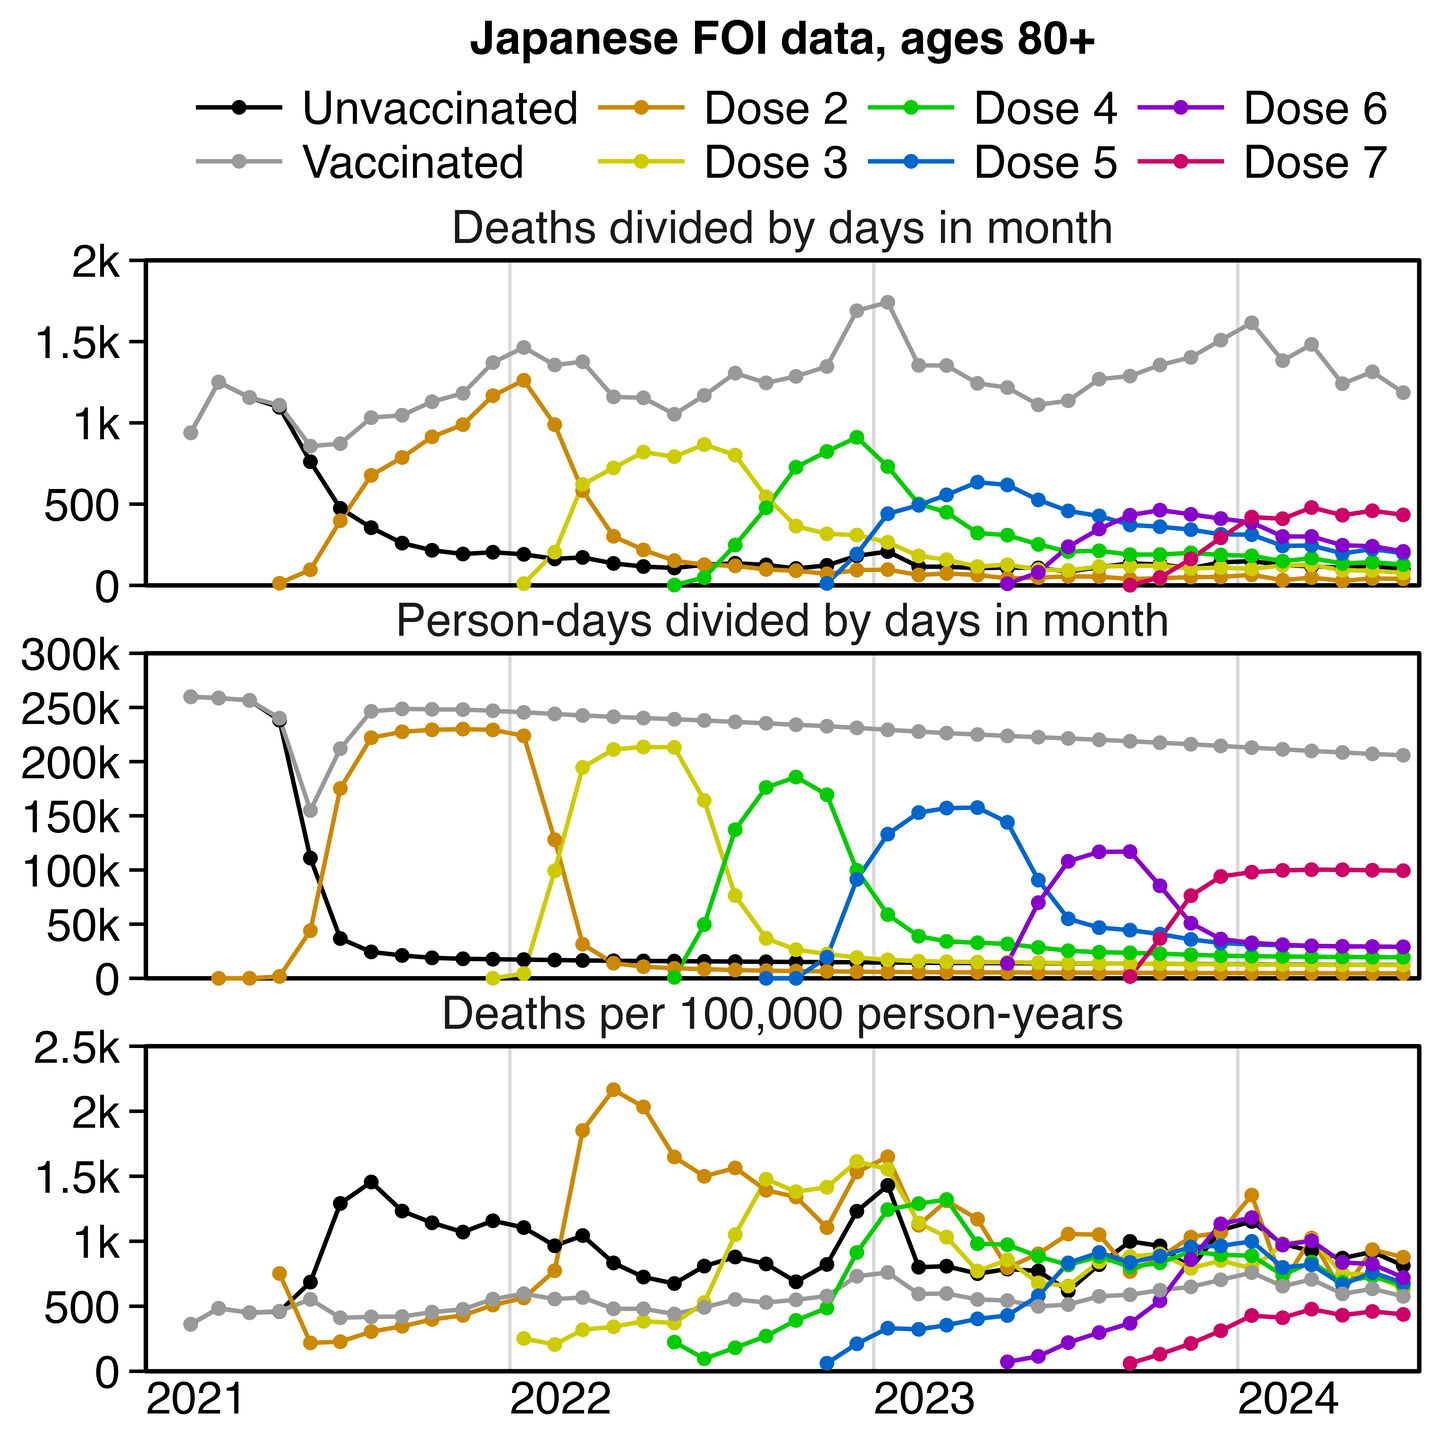
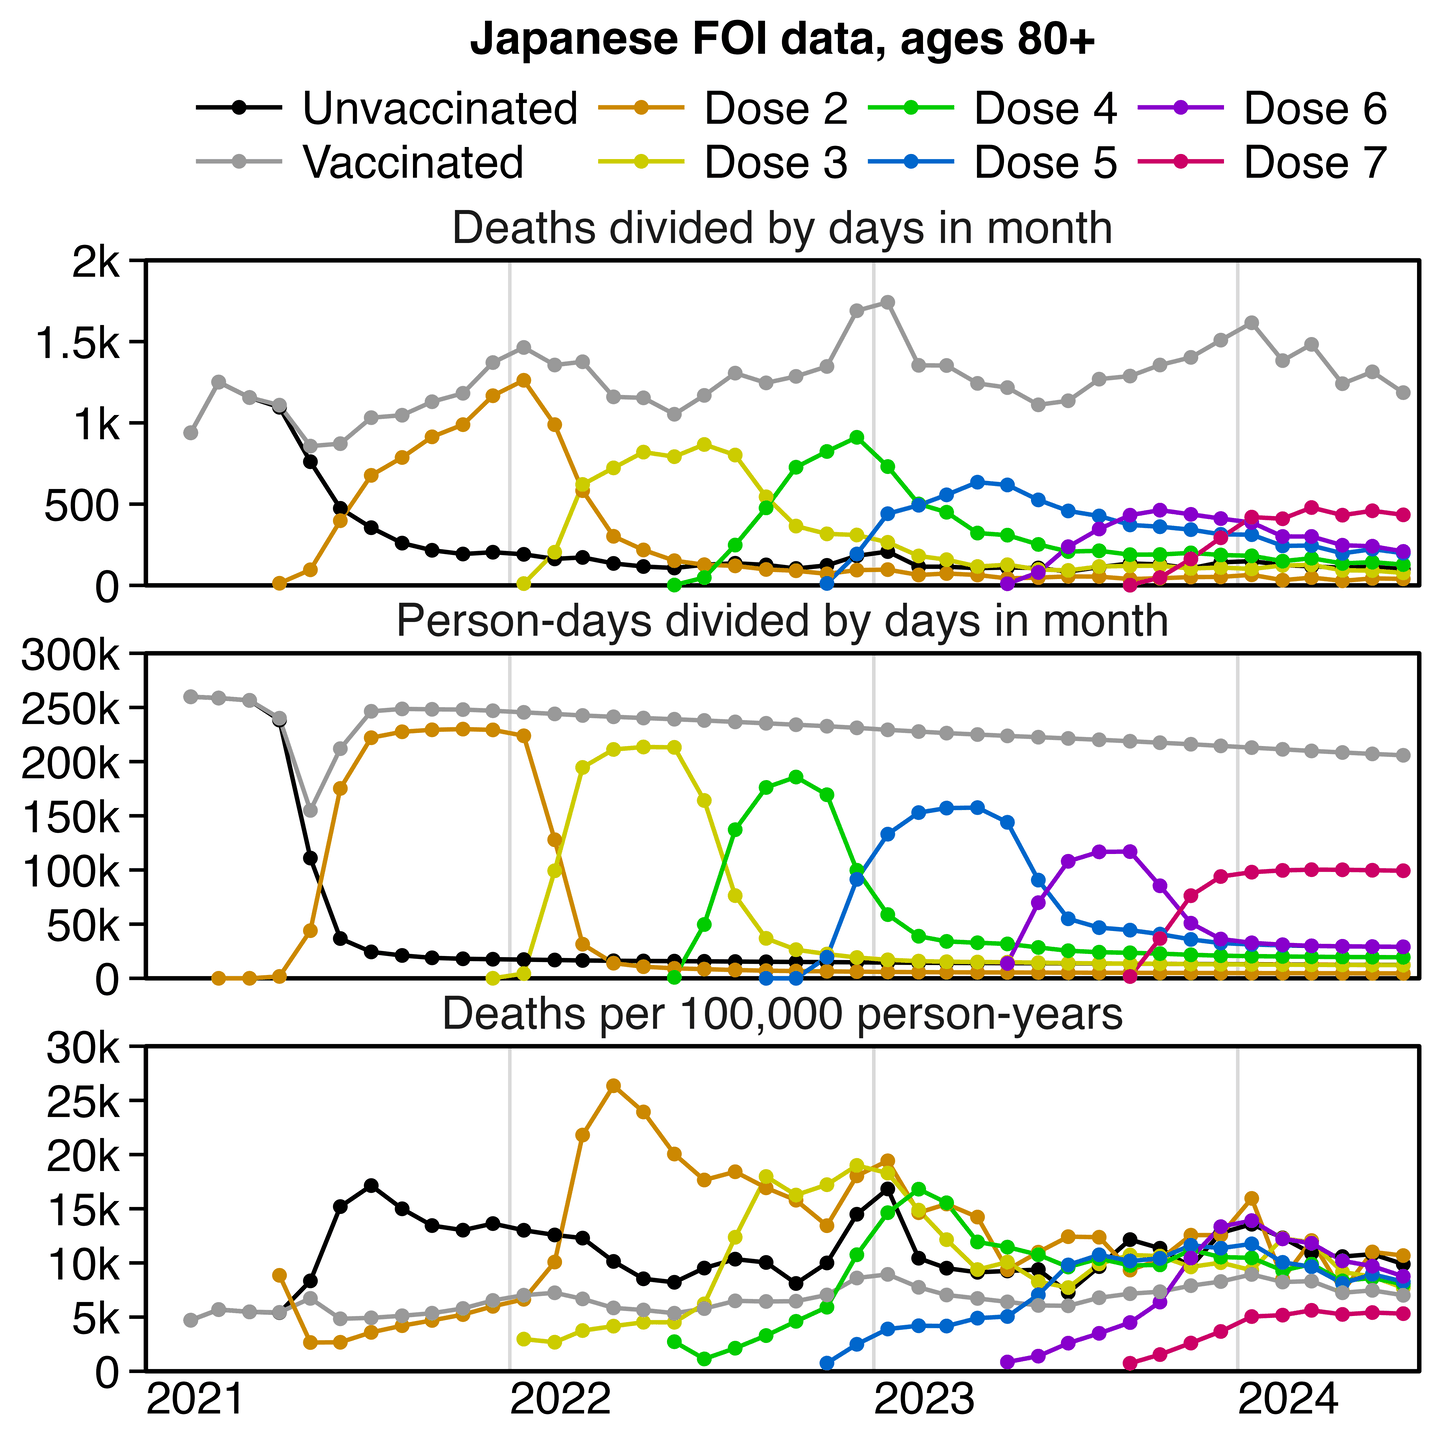
a

diff --git a/statistic2.html b/statistic2.html
@@ -2772,7 +2772,7 @@ a=t[,.(dead=sum(dead),pop=sum(pop)),.(month,dose)]
 a=rbind(a,a[,.(dead=sum(dead),pop=sum(pop),dose=1),month])
 
 a[,x:=as.Date(paste0(month,&quot;-15&quot;))][,people:=pop/days_in_month(x)]
-p=a[,.(x,y=c(dead,people,dead/people*1e5),facet=rep(1:3,each=.N),dose)]
+p=a[,.(x,y=c(dead,people,dead/pop*365e5),facet=rep(1:3,each=.N),dose)]
 p=p[y&gt;0]
 p[,dose:=factor(dose,,c(&quot;Unvaccinated&quot;,&quot;Vaccinated&quot;,paste(&quot;Dose&quot;,2:7)))]
 p[,facet:=factor(facet,,c(&quot;Deaths divided by days in month&quot;,&quot;Person-days divided by days in month&quot;,&quot;Deaths per 100,000 person-years&quot;))]
